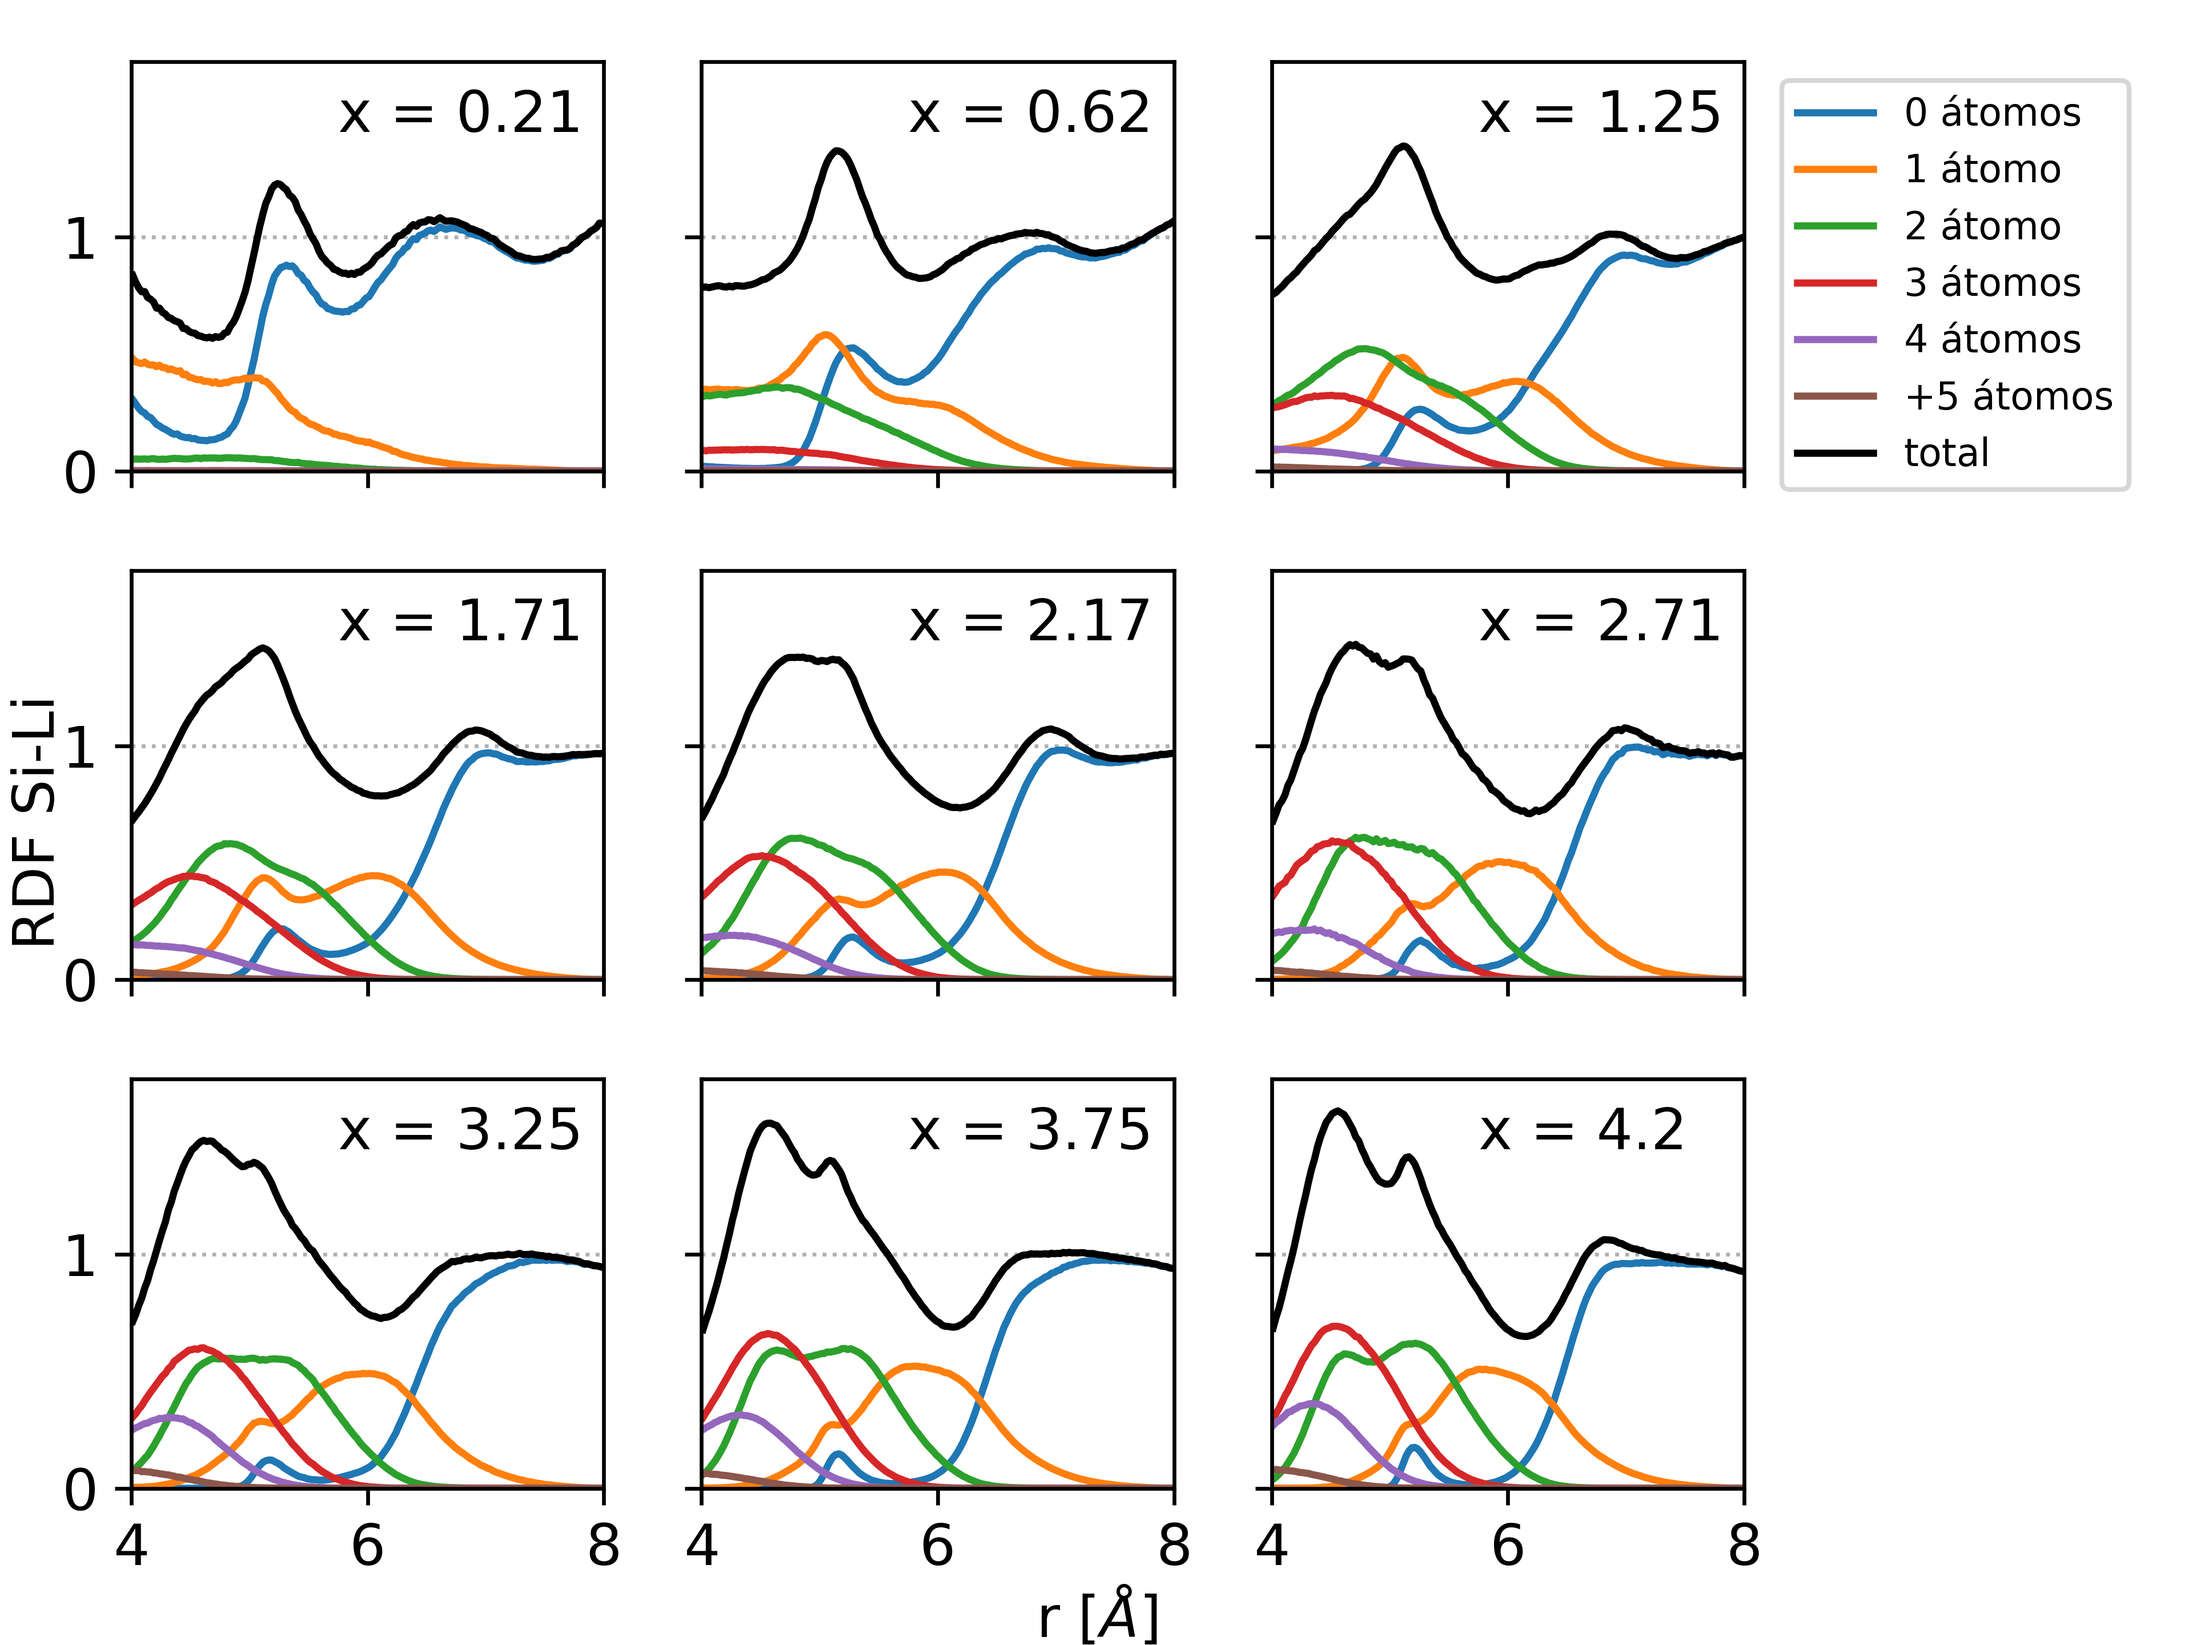
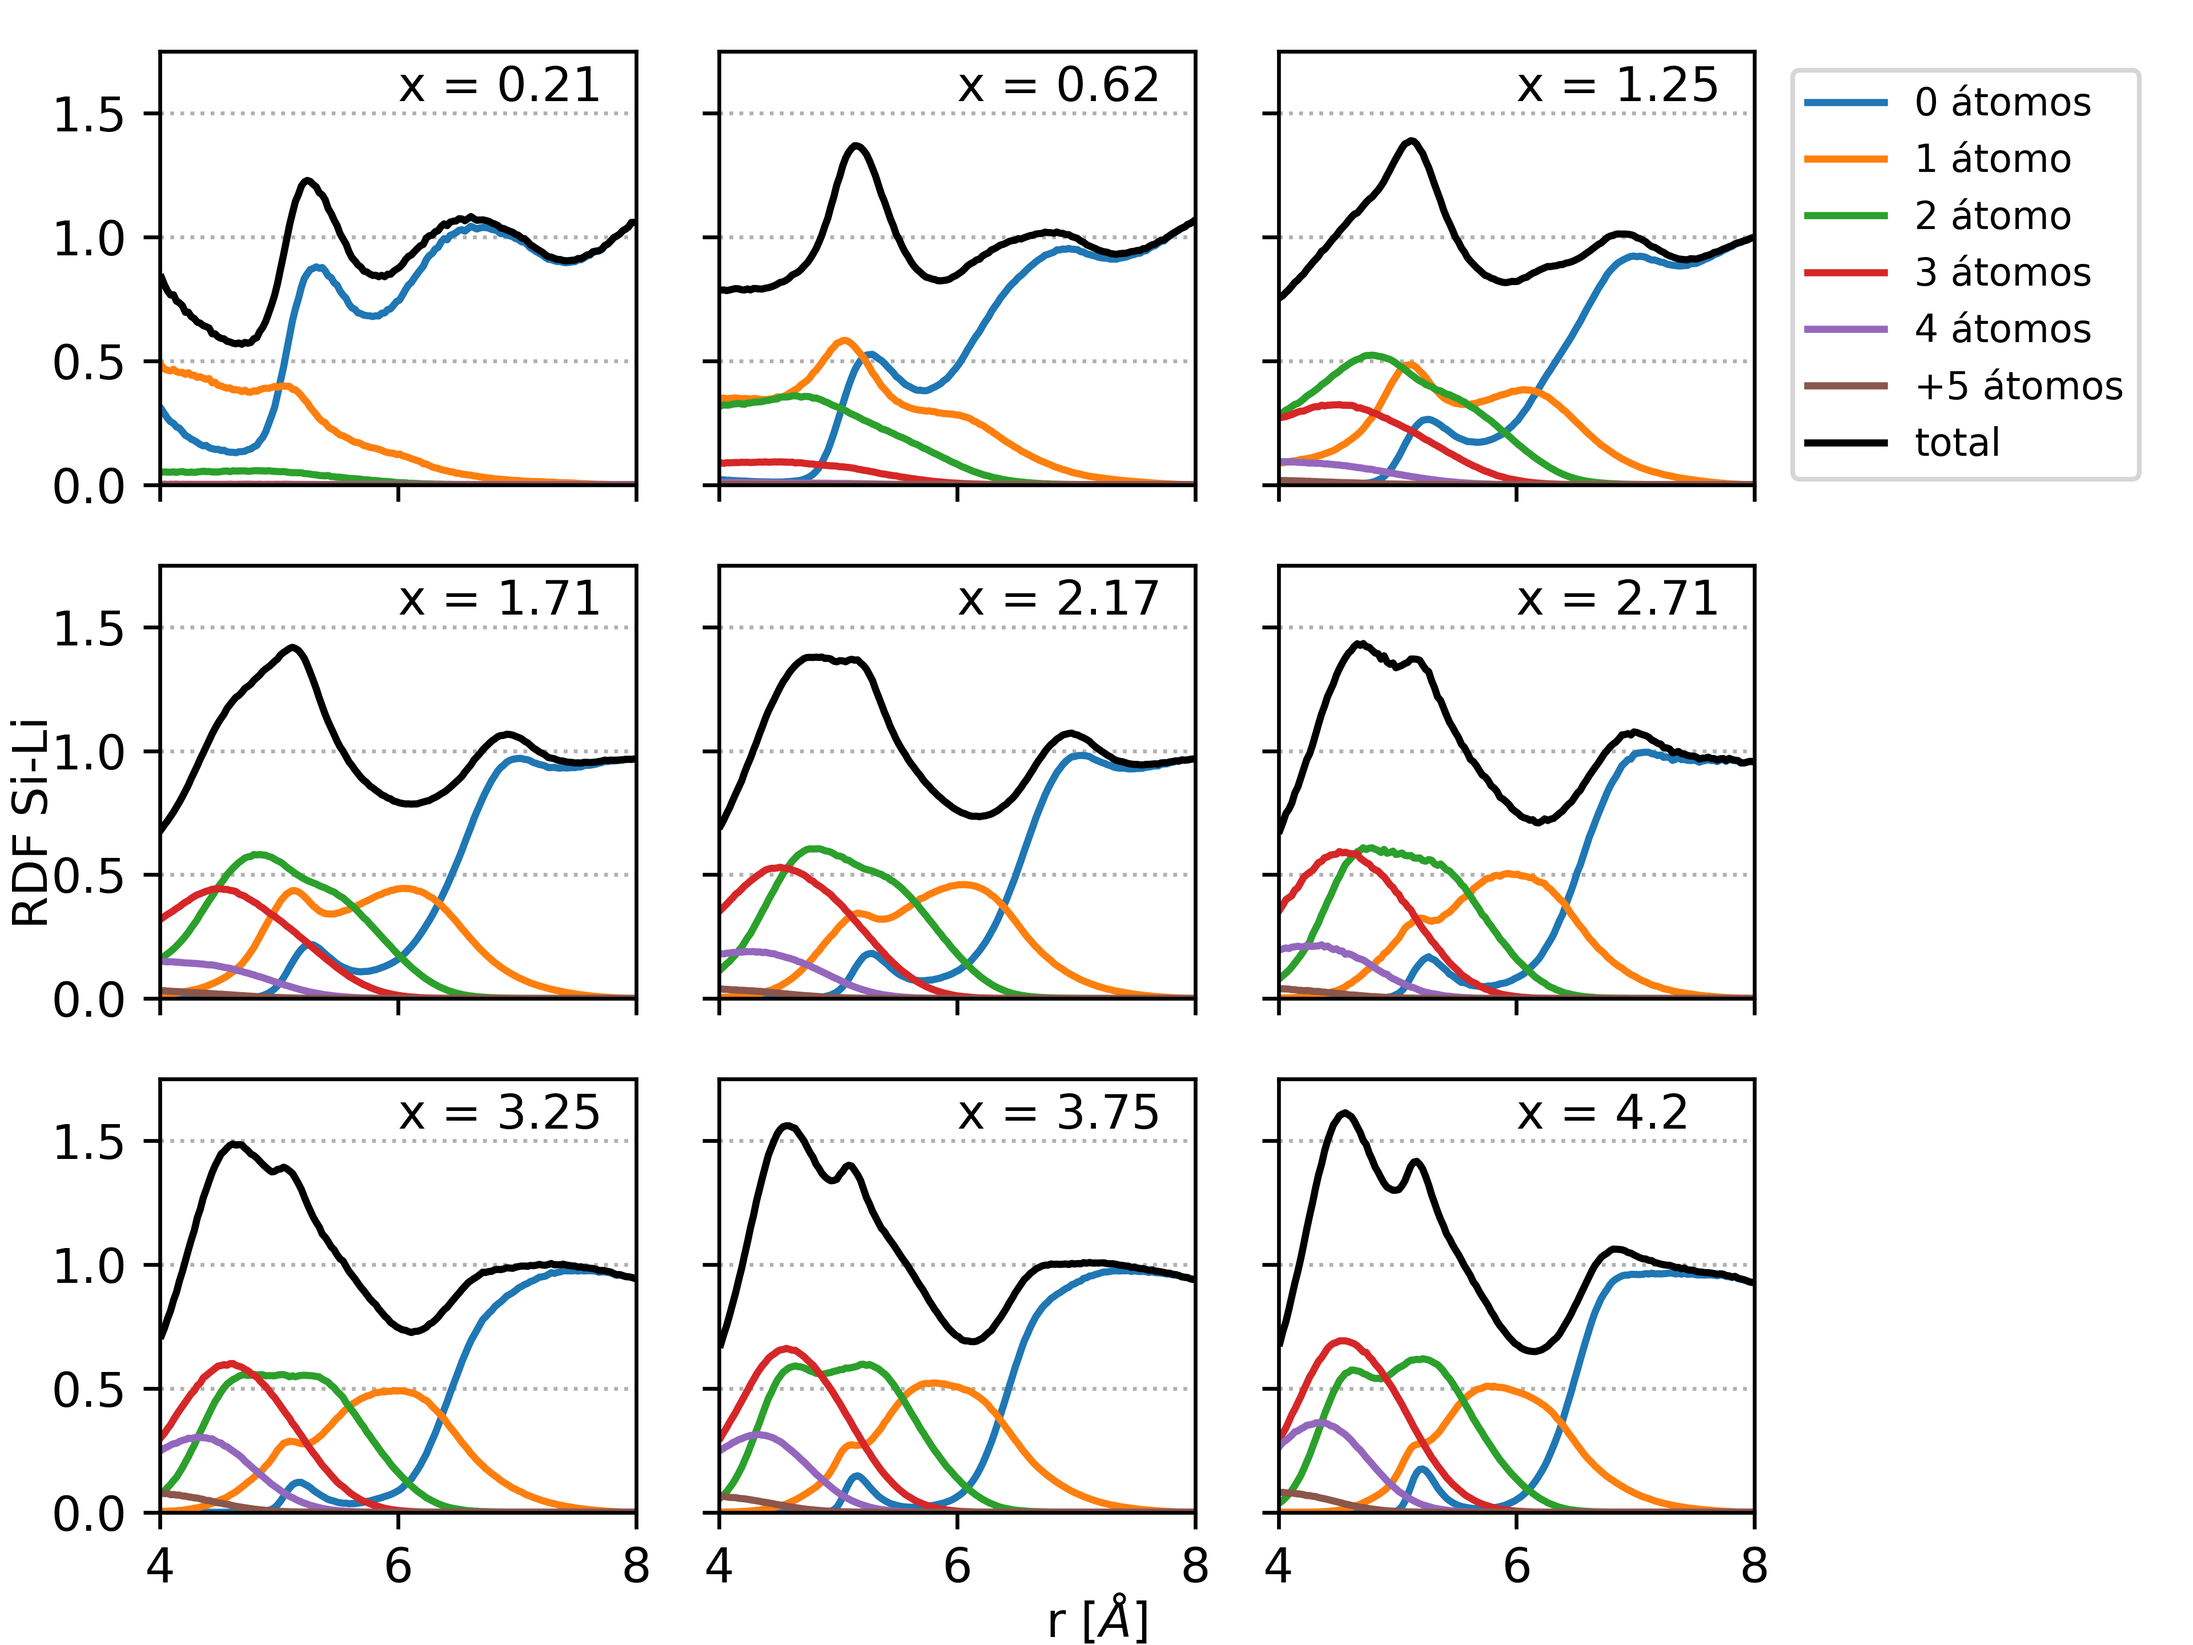
cambios en el tamaño de la letra de una figura

diff --git a/src/Silicio/caracterizacion/resultados/interconexion/interconexiones.py b/src/Silicio/caracterizacion/resultados/interconexion/interconexiones.py
@@ -6,21 +6,10 @@
 import matplotlib.pyplot as plt
 import numpy as np
 
-"""
-nordgray = "#2E3440"
-nordblue = "#5E81AC"
-nordred = "#BF616A"
-nordorange = "#D08770"
-nordyellow = "#EBCB8B"
-nordgreen = "#A3BE8C"
-nordpink = "#B48EAD"
-
-nordcolors = [nordorange, nordpink, nordyellow, nordgreen, nordred, nordblue]
-"""
 concentraciones = np.array([[0.21, 0.62, 1.25], [1.71, 2.17, 2.71], [3.25, 3.75, 4.2]])
 labels = ["0 átomos", "1 átomo", "2 átomo", "3 átomos", "4 átomos", "+5 átomos"]
 
-plt.rcParams.update({"font.size": 12})
+plt.rcParams.update({"font.size": 10})
 fig, axes = plt.subplots(3, 3, sharex=True, sharey=True)
 
 fig.text(0.5, 0.005, r"r [$\AA$]", ha="center")
@@ -40,7 +29,7 @@ for conc, axis in zip(concentraciones, axes):
             ax.plot(ges[0], g, label=l)
         ax.plot(ges[0], ges[1:].sum(axis=0), color="k", label="total")
 
-        ax.text(5.75, 1.45, f"x = {x}")
+        ax.text(6, 1.55, f"x = {x}")
 
         if x == 1.25:
             ax.legend(bbox_to_anchor=(1.04, 1), loc="upper left", prop={"size": 8})
